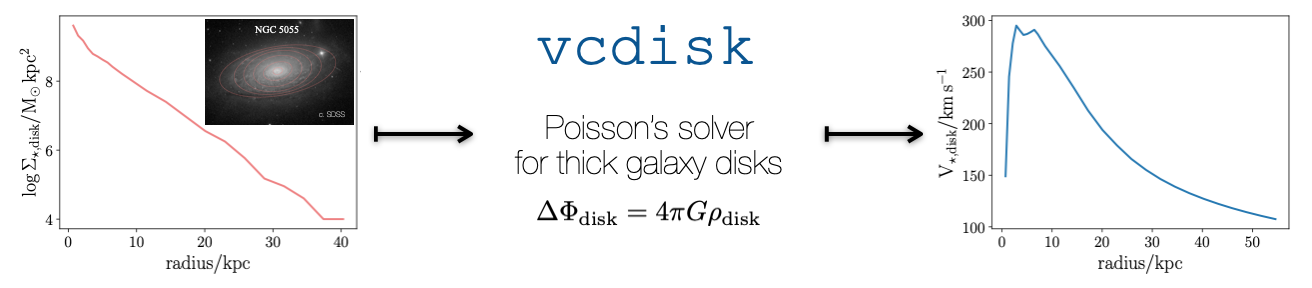
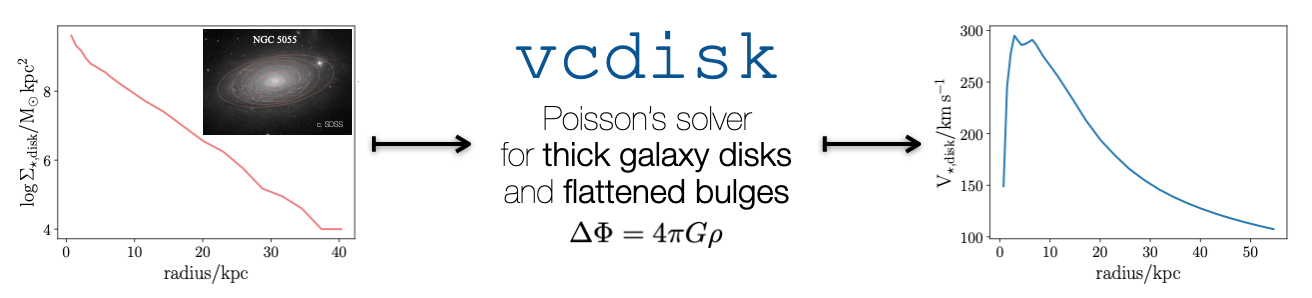
updated vcdisk_offplane and other minor things

diff --git a/vcdisk.py b/vcdisk.py
@@ -8,7 +8,7 @@
 __all__ = [
     'vcdisk',
     'vcbulge_sph',
-    'vcbulge_ellip',
+    'vcbulge',
     'vcbulge_sersic',
     'sersic',
     'integrand',
@@ -392,6 +392,154 @@ def vcdisk_thinexp(r, md, rd):
     return np.nan_to_num(np.sqrt(2*G_GRAV*md/rd*y**2*(i0(y)*k0(y)-i1(y)*k1(y))))
 
 
+def vcdisk_offplane(rad, zs, rho_rz):
+    r"""
+    Circular velocity off the mid plane of a thick disk.
+
+    This uses Eq. (27)-(28) of [Cuddeford93]_ to compute the gravitational potential,
+    and the circular velocity, at any position :math:`(R,z)` of thick disk of
+    arbitrary density.
+
+    :param rad: array of radii in :math:`\rm kpc`.
+    :type rad: list or numpy.ndarray
+    :param zs: array of height above the plane in :math:`\rm kpc`.
+    :type zs: list or numpy.ndarray
+    :param rho_rz: array of surface densities in :math:`\rm M_\odot / kpc^2`.
+        Its shape must be ``rho_rz.shape == (len(zs), len(rad))``. If the
+        array is sampled from a function ``rho(R,z)``, then this can be obtained
+        with ``rho_rz = rho(rad, z[:, None])``.
+    :type rho_rz: list or numpy.ndarray
+    :return: array of :math:`V_{\rm disk}` velocities in :math:`\rm km/s`.
+    :rtype: numpy.ndarray
+
+    .. seealso::
+
+        :py:func:`vcdisk.vcdisk`, `galpynamics <https://gitlab.com/iogiul/galpynamics>`_
+
+    .. warning::
+
+        This function is not as accurate as :py:func:`vcdisk.vcdisk` on the disk
+        plane and it is currently under development.
+
+    Notes
+    =====
+
+    This routine solves the integral in Eq. (27) of [Cuddeford93]_ to evaluate the
+    gravitational potential of a thick disk galaxy
+
+    .. math::
+
+        \Phi(R,z) = -\frac{2G}{\sqrt{R}} \int_{-\infty}^\infty {\rm d}l \int_0^\infty {\rm d}u\,\sqrt{u}\rho(u,l)\,Q_{-1/2}(x),
+
+    where :math:`Q_\lambda` is the Legendre function and
+
+    .. math::
+
+        x = \frac{R^2+u^2+(z-l)^2}{2Ru}.
+
+    From Eq. (560.01) in [ByrdFriedman71]_ we know that :math:`Q_{-1/2}(x) = y\,\mathcal{K}(y)`,
+    where :math:`\mathcal{K}` is the complete elliptic integral of the first kind and
+
+    .. math::
+        y^2 = \frac{2}{1+x} = \frac{4Ru}{R^2+u^2+2Ru+(z-l)^2}.
+
+    Thus we can write the potential as
+
+    .. math::
+
+        \Phi(R,z) = -\frac{2G}{\sqrt{R}} \int_{-\infty}^\infty {\rm d}l \int_0^\infty {\rm d}u\,\sqrt{u}\rho(u,l)\,y\,\mathcal{K}(y).
+
+    :py:func:`vcdisk.vcdisk_offplane` solves this integral to get a 2D array for the
+    gravitational potential in :math:`(R,z)` and then computes the circular velocity
+    of the disk as
+
+    .. math::
+
+        V_{\rm disk}(R,z) = \sqrt{R\left.\frac{\partial\Phi(R,z)}{\partial R}\right|_{z}}.
+
+    The double integral is computed with Simpson's method implemented in
+    :func:`scipy.integrate.simpson`.
+
+
+    References
+    ----------
+
+    .. [ByrdFriedman71] Byrd & Friedman, 1971, Springer-Verlag, Berlin. Handbook of Elliptic Integrals for Engineers and Scientists, 2nd Edition. `http://dx.doi.org/10.1007/978-3-642-65138-0 <http://dx.doi.org/10.1007/978-3-642-65138-0>`_
+    .. [Cuddeford93] Cuddeford, 1993, MNRAS, 262, 1076. On the potentials of galactic discs. `https://doi.org/10.1093/mnras/262.4.1076 <https://doi.org/10.1093/mnras/262.4.1076>`_
+
+    Example
+    =======
+
+    >>> import numpy as np
+    >>> from vcdisk import vcdisk_offplane
+    >>> md, rd, z0 = 1e10, 1.0, 0.3                                               # mass, rd, z0
+    >>> rad = np.linspace(0.1, 40.0, 20)                                          # radii samples
+    >>> zs  = np.linspace(0.0, 3.0,  20)                                          # height samples
+    >>> rho = lambda R,z: md / (4*np.pi*rd**2*z0) * np.exp(-R/rd) * np.exp(-z/z0) # density in (R,z)
+    >>> rho_rz = rho(rad, zs[:,None])
+    >>> vcdisk_offplane(rad, zs, rho_rz)
+    array([[ 69.9369551 , 280.68843945, ..., 31.73661284,  31.67214993],
+            ...
+            [  4.19006384,  36.38315685, ..., 31.6072344 ,  31.55062705]])
+
+    """
+
+    # input checks
+    rad = check_rad(rad, 'rad')
+    zs  = check_rad(zs,  'zs')
+
+    if type(rho_rz) is list: rho_rz = np.asarray(rho_rz)
+    if type(rho_rz) is np.ndarray:
+        pass
+    else:
+        raise TypeError("rho_rz must be a list or np.array")
+
+    if rho_rz.shape != (len(rad), len(zs)):
+        raise TypeError("rho_rz have shape: rho_rz.shape == (len(rad), len(zs))")
+
+    phi = -4*G_GRAV * np.array([[1/np.sqrt(R) * simpson(simpson(integrand_offplane(rad, zs[:,None], rho_rz, R, z), rad), zs)
+                                 for R in rad] for z in zs])
+    v_circ = np.sqrt(rad*np.gradient(phi, rad, axis=1))
+
+    return v_circ
+
+
+def integrand_offplane(u, l, rho_ul, R, z):
+    r"""
+    Integrand function for the integral in :py:func:`vcdisk.vcdisk_offplane`.
+
+    :param u: radial variable of integration in :math:`\rm kpc`. Its shape
+        must be ``u.shape == (len(u),)``.
+    :type u: list or numpy.ndarray
+    :param l: vertical variable of integration in :math:`\rm kpc`. Its shape
+        must be ``l.shape == (len(l),1)``. This can be obtained from a standard
+        array as ``l[:,None]``.
+    :type l: list or numpy.ndarray
+    :param rho_rz: array of surface densities in :math:`\rm M_\odot / kpc^2`.
+        Its shape must be ``rho_rz.shape == (len(l), len(u))``. If the
+        array is sampled from a function ``rho(R,z)``, then this can be obtained
+        with ``rho_rz = rho(u, l[:, None])``.
+    :type rho_rz: list or numpy.ndarray
+    :param R: radius in :math:`\rm kpc` at which the potential is evaluated
+    :type R: float
+    :param z: height in :math:`\rm kpc` at which the potential is evaluated
+    :type z: float
+    :return: 2-D array of the potential integrand with shape ``(len(l), len(u))``.
+    :rtype: numpy.ndarray
+
+    .. seealso::
+
+        :py:func:`vcdisk.vcdisk_offplane`
+
+
+    """
+
+    ysq = 4*R*u / (R**2 + u**2 + 2*R*u + np.clip(z-l, 1e-6, None)**2)
+
+    return np.sqrt(u*ysq) * ellipk(np.sqrt(ysq)) * rho_ul
+
+
+
 def vcbulge_sph(rad, sb):
     r"""
     Circular velocity of a spherical bulge of arbitrary surface density.
@@ -409,7 +557,7 @@ def vcbulge_sph(rad, sb):
 
     .. seealso::
 
-        :py:func:`vcdisk.vcbulge_ellip`
+        :py:func:`vcdisk.vcbulge`
 
     Notes
     =====
@@ -463,7 +611,7 @@ def vcbulge_sph(rad, sb):
 
 
 
-def vcbulge_ellip(rad, sb, q=0.99, inc=0.):
+def vcbulge(rad, sb, q=0.99, inc=0.):
     r"""
     Circular velocity of a spheroidal oblate bulge of arbitrary surface density.
 
@@ -543,6 +691,18 @@ def vcbulge_ellip(rad, sb, q=0.99, inc=0.):
     with :func:`scipy.integrate.quad` and the derivative of the input surface density
     profile :math:`I'` is discretized with :func:`numpy.gradient`.
 
+    .. warning::
+
+        With the current implementation using :func:`scipy.integrate.quad` this function
+        is considerably slower than :py:func:`vcdisk.vcdisk`, which instead computes
+        discretized integrals with :func:`scipy.integrate.simpson`.
+
+    .. warning::
+
+        The integral consistently results in a numerical overflow of ``cosh`` and
+        an IntegrationWarning on :func:`scipy.integrate.quad`. Thus these two warnings
+        have been suppressed.
+
 
     References
     ----------
@@ -555,6 +715,9 @@ def vcbulge_ellip(rad, sb, q=0.99, inc=0.):
     rad, sb = check_rad_sb(rad, sb)
 
     # checks on q and inc
+    if q==1.0:
+        print ("the spherical case q=1 is handled with vcbulge_sph")
+        return vcbulge_sph(rad, sb)
     q, inc = check_q_inc(q, inc)
 
     # intrinsic ellipticity
@@ -582,7 +745,7 @@ def vcbulge_sersic(rad, mtot, re, n, q=0.99, inc=0.):
     r"""
     Circular velocity of a flattened Sersic bulge.
 
-    This is the same as :py:func:`vcdisk.vcbulge_ellip`, but for an analytic
+    This is the same as :py:func:`vcdisk.vcbulge`, but for an analytic
     [Sersic68]_ surface density profile. The implementation follows Eq.s
     (10)-(14) in [Noordermeer08]_.
 
@@ -609,7 +772,7 @@ def vcbulge_sersic(rad, mtot, re, n, q=0.99, inc=0.):
 
     .. seealso::
 
-        :py:func:`vcdisk.vcbulge_ellip`, :py:func:`vcdisk.vcbulge_sph`, :py:class:`vcdisk.sersic`
+        :py:func:`vcdisk.vcbulge`, :py:func:`vcdisk.vcbulge_sph`, :py:class:`vcdisk.sersic`
 
     Notes
     =====
@@ -641,7 +804,7 @@ def vcbulge_sersic(rad, mtot, re, n, q=0.99, inc=0.):
 
         \mathcal{C} = \frac{4\,G q I_e\,b_n}{nR_e} \sqrt{\sin^2i+\frac{1}{q}\cos^2i}.
 
-    As in :py:func:`vcdisk.vcbulge_ellip`, it is convenient to change integration
+    As in :py:func:`vcdisk.vcbulge`, it is convenient to change integration
     variables since both integrals present singularities: :math:`u={\rm arccosh}{(R/m)}`
     is used for the inner integral in :math:`{\rm d}R`, while :math:`t=\arcsin{me/r}`
     is used for the outer integral in :math:`{\rm d}m`.
@@ -821,127 +984,8 @@ def check_q_inc(q, inc):
         raise ValueError("q must be positive")
     if q>1.0:
         raise ValueError("q must be <1, can't do prolate bulges")
-    if q==1.0:
-        raise ValueError("the spherical case q=1 is handled by calling vcbulge_sph")
 
     if inc<0.0 or inc>90.0:
         raise ValueError("the inclination in degrees must be 0 <= inc <= 90")
 
     return q, inc
-
-
-
-######################################################################################
-######################################################################################
-#
-# Below is an alternative implementation of the double integral to get the potential
-# Phi(R,z) of an axisymmetric disk. This follows eq. (27)-(28) of Cuddeford (1993)
-# https://articles.adsabs.harvard.edu/pdf/1993MNRAS.262.1076C
-# The derivation of the formula with K instead of Q_-1/2 is due to a transformation
-# of eq. (27) following Byrd & Friedman (1971), page 248 eq 560.01, which I found
-# in https://gitlab.com/iogiul/galpynamics/-/wikis/Potential-of-discs
-
-def vcdisk_offplane(rad, zs, rho_rz):
-    r"""
-    Circular velocity off the mid plane of a thick disk.
-
-    This uses Eq. (27)-(28) of [Cuddeford93]_ to compute the gravitational potential,
-    and the circular velocity, at any position :math:`(R,z)` of thick disk of
-    arbitrary density.
-
-    :param rad: array of radii in :math:`\rm kpc`.
-    :type rad: list or numpy.ndarray
-    :param zs: array of height above the plane in :math:`\rm kpc`.
-    :type zs: list or numpy.ndarray
-    :param rho_rz: array of surface densities in :math:`\rm M_\odot / kpc^2`.
-        Its shape must be ``rho_rz.shape == (len(zs), len(rad))``. If the
-        array is sampled from a function ``rho(R,z)``, then this can be obtained
-        with ``rho_rz = rho(rad, z[:, None])``.
-    :type rho_rz: list or numpy.ndarray
-    :return: array of :math:`V_{\rm disk}` velocities in :math:`\rm km/s`.
-    :rtype: numpy.ndarray
-
-    .. seealso::
-
-        :py:func:`vcdisk.vcdisk`
-
-    .. warning::
-
-        This function is not as accurate as :py:func:`vcdisk.vcdisk` on the disk
-        plane and it is currently under development.
-
-    References
-    ----------
-
-    .. [Cuddeford93] Cuddeford, 1993, MNRAS, 262, 1076. On the potentials of galactic discs. `https://doi.org/10.1093/mnras/262.4.1076 <https://doi.org/10.1093/mnras/262.4.1076>`_
-
-    Example
-    =======
-
-    >>> import numpy as np
-    >>> from vcdisk import vcdisk_offplane
-    >>> md, rd, z0 = 1e10, 1.0, 0.3                                               # mass, rd, z0
-    >>> rad = np.linspace(0.1, 40.0, 20)                                          # radii samples
-    >>> zs  = np.linspace(0.0, 3.0,  20)                                          # height samples
-    >>> rho = lambda R,z: md / (4*np.pi*rd**2*z0) * np.exp(-R/rd) * np.exp(-z/z0) # density in (R,z)
-    >>> rho_rz = rho(rad, zs[:,None])
-    >>> vcdisk_offplane(rad, zs, rho_rz)
-    array([[ 69.9369551 , 280.68843945, ..., 31.73661284,  31.67214993],
-            ...
-            [  4.19006384,  36.38315685, ..., 31.6072344 ,  31.55062705]])
-
-    """
-
-    # input checks
-    rad = check_rad(rad, 'rad')
-    zs  = check_rad(zs,  'zs')
-
-    if type(rho_rz) is list: rho_rz = np.asarray(rho_rz)
-    if type(rho_rz) is np.ndarray:
-        pass
-    else:
-        raise TypeError("rho_rz must be a list or np.array")
-
-    if rho_rz.shape != (len(rad), len(zs)):
-        raise TypeError("rho_rz have shape: rho_rz.shape == (len(rad), len(zs))")
-
-    phi = -4*G_GRAV * np.array([[1/np.sqrt(R) * simpson(simpson(integrand_offplane(rad, zs[:,None], rho_rz, R, z), rad), zs)
-                                 for R in rad] for z in zs])
-    v_circ = np.sqrt(rad*np.gradient(phi, rad, axis=1))
-
-    return v_circ
-
-
-def integrand_offplane(u, l, rho_ul, R, z):
-    r"""
-    Integrand function for the integral in :py:func:`vcdisk.vcdisk_offplane`.
-
-    :param u: radial variable of integration in :math:`\rm kpc`. Its shape
-        must be ``u.shape == (len(u),)``.
-    :type u: list or numpy.ndarray
-    :param l: vertical variable of integration in :math:`\rm kpc`. Its shape
-        must be ``l.shape == (len(l),1)``. This can be obtained from a standard
-        array as ``l[:,None]``.
-    :type l: list or numpy.ndarray
-    :param rho_rz: array of surface densities in :math:`\rm M_\odot / kpc^2`.
-        Its shape must be ``rho_rz.shape == (len(l), len(u))``. If the
-        array is sampled from a function ``rho(R,z)``, then this can be obtained
-        with ``rho_rz = rho(u, l[:, None])``.
-    :type rho_rz: list or numpy.ndarray
-    :param R: radius in :math:`\rm kpc` at which the potential is evaluated
-    :type R: float
-    :param z: height in :math:`\rm kpc` at which the potential is evaluated
-    :type z: float
-    :return: 2-D array of the potential integrand with shape ``(len(l), len(u))``.
-    :rtype: numpy.ndarray
-
-    .. seealso::
-
-        :py:func:`vcdisk.vcdisk_offplane`
-
-
-    """
-
-    y = 4*R*u / (R**2 + u**2 + 2*R*u + np.clip(z-l, 1e-6, None)**2)
-
-    return np.sqrt(u*y) * ellipk(np.sqrt(y)) * rho_ul

diff --git a/test_vcdisk.py b/test_vcdisk.py
@@ -81,8 +81,6 @@ def test_inputs():
     with pytest.raises(ValueError):
         vcbulge_ellip(rad, sb, q=2.0)
     with pytest.raises(ValueError):
-        vcbulge_ellip(rad, sb, q=1.0)
-    with pytest.raises(ValueError):
         vcbulge_ellip(rad, sb, inc=-1.0)
     with pytest.raises(ValueError):
         vcbulge_ellip(rad, sb, inc=180.0)
@@ -135,6 +133,7 @@ def test_output_type():
     #-- vcbulge_ellip
     assert type(vcbulge_ellip(rad, sb)) is np.ndarray
     assert type(vcbulge_ellip(rad, sb, q=0.9)) is np.ndarray
+    assert type(vcbulge_ellip(rad, sb, q=1.0)) is np.ndarray
     assert type(vcbulge_ellip(rad, sb, inc=60.0)) is np.ndarray
     assert type(vcbulge_ellip(rad, sb, q=0.9, inc=60.0)) is np.ndarray
 

diff --git a/docs/source/api.rst b/docs/source/api.rst
@@ -11,7 +11,7 @@ API
    vcdisk_offplane
    integrand_offplane
    vcdisk_thinexp
+   vcbulge
    vcbulge_sph
-   vcbulge_ellip
    vcbulge_sersic
    sersic
